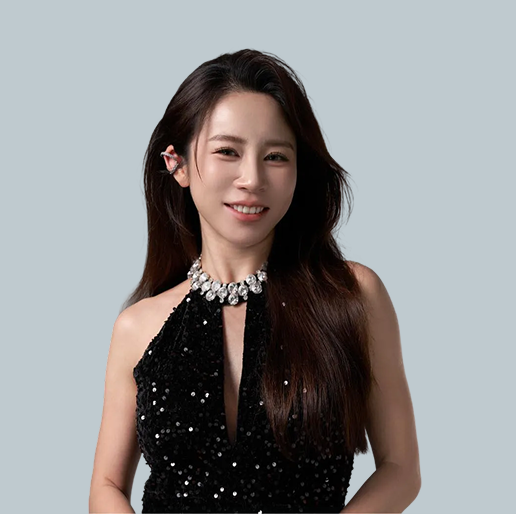
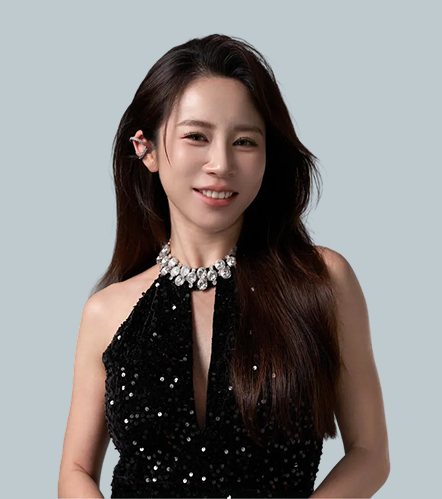
responsiveness about me

diff --git a/components/About.tsx b/components/About.tsx
@@ -1,10 +1,15 @@
 "use client";
 import React, { useRef } from "react";
 import summerHeadshot from "@/public/images/summer-headshot.png";
+import prguBlack from "@/public/images/prgu-black.png";
+import prguWhite from "@/public/images/prgu-white.png";
 import Image from "next/image";
-import { awardsBase } from "@/constants/constants";
+import { awardsBase, stats } from "@/constants/constants";
 import { motion, useInView } from "motion/react";
 import MiniHeader from "./MiniHeader";
+import VerticalLines from "./VerticalLines";
+import Link from "next/link";
+import AwardCard from "./AwardCard";
 
 // Duplicate for seamless infinite scroll
 const awards = [...awardsBase, ...awardsBase];
@@ -14,15 +19,13 @@ const About = () => {
   const isInView = useInView(ref, { once: true, margin: "-100px" });
 
   return (
-    <section id="about" className="relative bg-white">
-      {/* Decorative vertical lines */}
-      <div className="absolute inset-0 max-w-360 mx-auto pointer-events-none overflow-hidden">
-        <div className="absolute left-30.5 top-0 bottom-0 border-l border-black/20" />
-        <div className="absolute right-30.5 top-0 bottom-0 border-l border-black/20" />
-      </div>
-
+    <section id="about" className="relative bg-white py-8">
+      <VerticalLines color="black" />
       {/* Main About Content */}
-      <div ref={ref} className="max-w-360 mx-auto px-39.5 py-20 relative">
+      <div
+        ref={ref}
+        className="max-w-360 mx-auto px-28 xl:px-39.5 relative mb-8"
+      >
         <div className="flex items-start gap-12">
           {/* Left Content */}
           <motion.div
@@ -40,6 +43,50 @@ const About = () => {
               analysis—to ensure your property journey is seamless and
               rewarding.
             </p>
+
+            <Link
+              href="https://www.propertyguru.com.sg/agent/summer-xia-14203520"
+              target="_blank"
+              className="group button-container border border-[#CCCCCC] hover:bg-black transition-colors duration-200 gap-3 mt-[24px]"
+            >
+              <div>
+                {/* Black Logo (default) */}
+                <Image
+                  src={prguBlack}
+                  alt="PropertyGuru Logo"
+                  className="block group-hover:hidden"
+                />
+
+                {/* White Logo (hover) */}
+                <Image
+                  src={prguWhite}
+                  alt="PropertyGuru Logo"
+                  className="hidden group-hover:block"
+                />
+              </div>
+              <span className="text-black group-hover:text-white text-[16px] transition-colors duration-200">
+                View Profile
+              </span>
+            </Link>
+
+            {/* Stats */}
+            <motion.div
+              initial={{ opacity: 0, y: 20 }}
+              animate={isInView ? { opacity: 1, y: 0 } : {}}
+              transition={{ duration: 0.7, delay: 0.3, ease: "easeOut" }}
+              className="flex flex-wrap items-center gap-6 md:gap-8 mt-10 xl:mt-16 min-w-[486px]"
+            >
+              {stats.map((stat) => (
+                <div key={stat.label} className="flex flex-col gap-1.5">
+                  <p className="text-[28px] md:text-[32px] text-black tracking-[-0.5px] font-bold">
+                    {stat.value}
+                  </p>
+                  <p className="text-[14px] md:text-[16px] text-black -tracking-[0.5px] whitespace-normal">
+                    {stat.label}
+                  </p>
+                </div>
+              ))}
+            </motion.div>
           </motion.div>
 
           {/* Right – Headshot */}
@@ -47,22 +94,35 @@ const About = () => {
             initial={{ opacity: 0, x: 30 }}
             animate={isInView ? { opacity: 1, x: 0 } : {}}
             transition={{ duration: 0.7, delay: 0.2, ease: "easeOut" }}
-            className="shrink-0 relative overflow-hidden bg-[#bfcacf] z-10 -mt-40"
-            style={{ width: 516, height: 514 }}
+            className="shrink-0 relative overflow-hidden bg-[#bfcacf] z-10 
+            min-[1352px]:-mt-40 min-[1198px]:-mt-35 min-[1136px]:-mt-20
+            w-[275px] h-[311px] min-[1136px]:w-[363px] min-[1136px]:h-[410px] 
+            min-[1198px]:w-[425px] min-[1198px]:h-[480px] xl:w-[442px] xl:h-[499px]"
           >
             <Image
               src={summerHeadshot}
               alt="Summer Xia Headshot"
-              className="absolute"
-              style={{
-                width: "91.77%",
-                height: "91.91%",
-                left: "2.5%",
-                top: "8.09%",
-              }}
             />
           </motion.div>
         </div>
+      </div>
+
+      {/* Awards Carousel – Full Width, seamless loop */}
+      <div className="w-full overflow-hidden relative h-[130px]">
+        <motion.div
+          className="flex gap-4 absolute top-0 left-0 h-full items-start"
+          animate={{ x: ["0%", "-50%"] }}
+          transition={{
+            duration: 40,
+            repeat: Infinity,
+            ease: "linear",
+            repeatType: "loop",
+          }}
+        >
+          {awards.map((award, i) => (
+            <AwardCard key={i} award={award} />
+          ))}
+        </motion.div>
       </div>
     </section>
   );

diff --git a/components/Hero.tsx b/components/Hero.tsx
@@ -3,10 +3,11 @@ import React from "react";
 import { motion } from "motion/react";
 import heroBackground from "@/public/images/hero-background.jpeg";
 import Image from "next/image";
+import VerticalLines from "./VerticalLines";
 
 const Hero = () => {
   return (
-    <section className="relative w-full h-[500px] sm:h-[600px] md:h-[700px] xl:h-[794px] overflow-hidden">
+    <section className="relative w-full h-125 sm:h-150 md:h-175 xl:h-198.5 overflow-hidden">
       {/* Background Image */}
       <div className="absolute inset-0">
         <Image
@@ -17,11 +18,7 @@ const Hero = () => {
         <div className="bg-black/50 inset-0 absolute"></div>
       </div>
 
-      {/* Decorative vertical lines — desktop only */}
-      <div className="hidden lg:block absolute inset-0 max-w-360 mx-auto pointer-events-none">
-        <div className="absolute xl:left-30.5 lg:left-20 top-0 bottom-0 border-l border-white/30" />
-        <div className="absolute xl:right-30.5 lg:right-20 top-0 bottom-0 border-l border-white/30" />
-      </div>
+      <VerticalLines color="white" />
 
       {/* Horizontal line — full section width, not capped by max-w */}
       <div className="absolute left-0 right-0 top-77.5 border-t border-white/30 pointer-events-none" />

diff --git a/components/AwardCard.tsx b/components/AwardCard.tsx
@@ -1,0 +1,33 @@
+import React from "react";
+import { awardsBase } from "@/constants/constants";
+import era from "@/public/images/era-award-logo.png";
+import siea from "@/public/images/siea-logo.png";
+import Image from "next/image";
+
+const AwardCard = ({ award }: { award: (typeof awardsBase)[0] }) => {
+  return (
+    <div className="bg-[#f5f5f5] border border-[#ccc] px-6 py-6 flex items-center gap-6 flex-shrink-0">
+      {award.logo === "era" ? (
+        <Image
+          src={era}
+          alt="ERA Real Estate"
+          className="w-[51px] h-[62px] object-contain flex-shrink-0"
+        />
+      ) : (
+        <Image
+          src={siea}
+          alt="Award"
+          className="w-[62px] h-[62px] object-contain flex-shrink-0"
+        />
+      )}
+      <div className="flex flex-col justify-center gap-0.5">
+        <p className="text-black text-[20px] whitespace-pre-line leading-tight font-bold">
+          {award.title}
+        </p>
+        <p className="text-black text-[16px] whitespace-nowrap">{award.date}</p>
+      </div>
+    </div>
+  );
+};
+
+export default AwardCard;

diff --git a/components/VerticalLines.tsx b/components/VerticalLines.tsx
@@ -1,0 +1,22 @@
+import React from "react";
+
+type SectionGuidesProps = {
+  color?: "white" | "black";
+};
+
+const VerticalLines = ({ color = "white" }: SectionGuidesProps) => {
+  const borderColor = color === "white" ? "border-white/30" : "border-black/20";
+
+  return (
+    <div className="hidden lg:block absolute inset-0 max-w-360 mx-auto pointer-events-none">
+      <div
+        className={`absolute xl:left-30.5 lg:left-20 top-0 bottom-0 border-l ${borderColor}`}
+      />
+      <div
+        className={`absolute xl:right-30.5 lg:right-20 top-0 bottom-0 border-l ${borderColor}`}
+      />
+    </div>
+  );
+};
+
+export default VerticalLines;

diff --git a/constants/constants.ts b/constants/constants.ts
@@ -23,3 +23,9 @@ export const navItems = [
   { label: "About Me", id: "about" },
   { label: "Services", id: "services" },
 ];
+
+export const stats = [
+  { value: "100+", label: "Satisfied Clients" },
+  { value: "5+", label: "Years of Experience" },
+  { value: "99%", label: "Client Satisfaction Rate" },
+];

diff --git a/app/globals.css b/app/globals.css
@@ -34,8 +34,11 @@ body {
   }
 
   .button-container {
+    @apply inline-flex;
+    @apply items-center;
     @apply px-4;
     @apply py-2.5;
     @apply font-bold;
+    @apply cursor-pointer;
   }
 }

diff --git a/app/page.tsx b/app/page.tsx
@@ -10,7 +10,7 @@ const Page = () => {
       <Navbar />
       <main>
         <Hero />
-        {/* <About /> */}
+        <About />
       </main>
       <Footer />
     </div>
